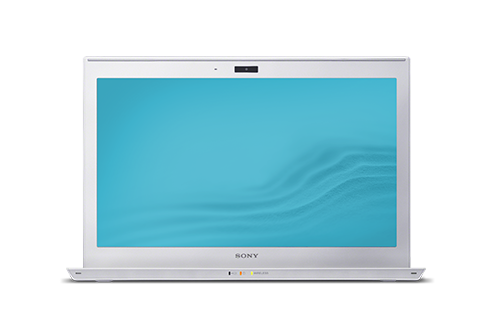
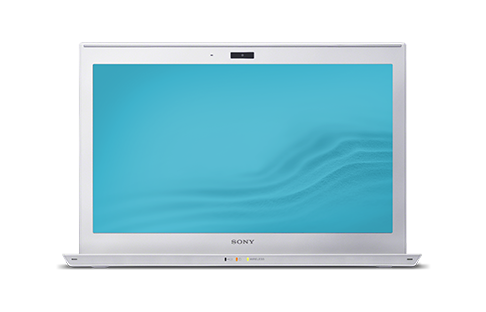
Added inches, restructured images for better reusability

Changed region(s): [[0.1235, 0.1158, 0.8951, 0.926]]

diff --git a/src/packages/modules/editorial-compare-b2-x00/css/editorial-compare-b2-x00.scss b/src/packages/modules/editorial-compare-b2-x00/css/editorial-compare-b2-x00.scss
@@ -2,7 +2,7 @@
 @import "../../../common/css/_base/mixins";
 
 $numColumns: 3;
-$imgVerticalOffset: 0;
+$imgVerticalOffset: 8%;
 
 .editorial-compare {
 
@@ -26,19 +26,41 @@ $imgVerticalOffset: 0;
 
   .sony-carousel-slide-children {
     position: relative;
-
-    img {
+  
+    .device {
       position: relative;
-      max-width: 155%;
       margin-left: -33%;
+      width: 155%;
     }
+
+      .inches {
+        color: #fff;
+        font-size: 2em;
+        font-weight: bold;
+        margin: 0;
+        padding: 0;
+        position: absolute;
+          left: 0;
+          right: 0;
+          top: 43%;
+        text-align: center;
+
+        span {
+          font-size: .5em;
+        }
+      }
+
+      img {
+        max-width: 155%;
+        width: 100%;
+      }
 
     // Apply an image offset and z-index to the images in the columns
     // so that images to the left are lower and in front of images
     // to the right
     @for $i from 0 through $numColumns {
       &.column-#{$i} {
-        img {
+        .device {
           z-index: $numColumns - $i;
           margin-bottom: $i * $imgVerticalOffset;
           margin-top: ($numColumns - $i) * $imgVerticalOffset;

diff --git a/src/packages/modules/editorial-compare-b2-x00/css/_responsive-editorial-compare-b2-x00.scss b/src/packages/modules/editorial-compare-b2-x00/css/_responsive-editorial-compare-b2-x00.scss
@@ -22,8 +22,9 @@ $imgVerticalOffset: 10%;
     .sony-carousel-slide-children {
 
       // Images fit within the bounds of the columns with no overlapping.
-      img {
-      	display: block;
+      img,
+      .device {
+        display: block;
         max-width: 100%;
       }
 
@@ -32,7 +33,7 @@ $imgVerticalOffset: 10%;
       // margins are required for offsetting the images vertically.
       @for $i from 0 through $numColumns {
         &.column-#{$i} {
-          img {
+          .device {
             margin-top: 0;
             margin-left: auto;
             margin-right: auto;
@@ -46,3 +47,10 @@ $imgVerticalOffset: 10%;
   }
 }
 
+@media (max-width: px-em( 481 ) ) {
+  .editorial-compare {
+    .sony-carousel-slide-children .inches {
+      top: 35%;
+    }
+  }
+}
